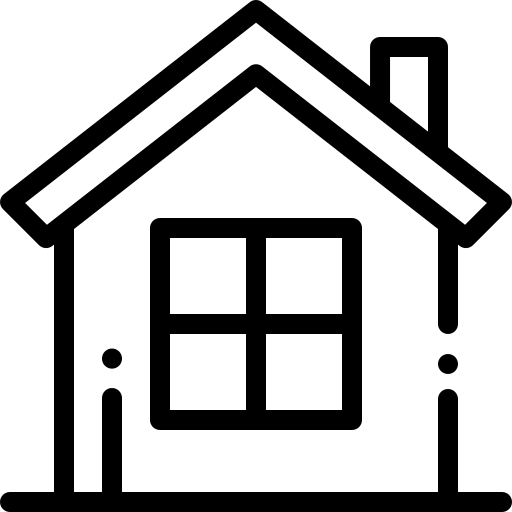
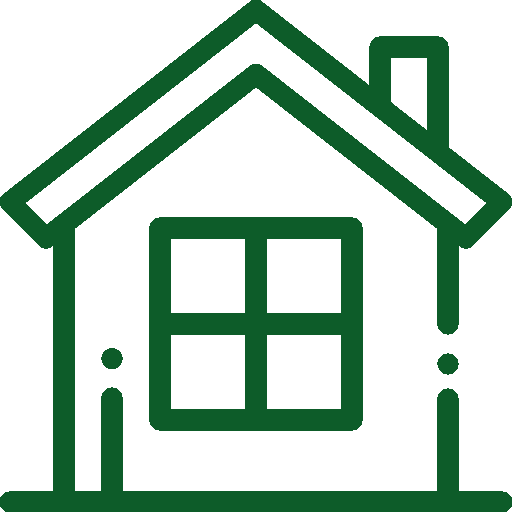
updated taskbar image

Changed region(s): [[0.0, 0.0, 1.0, 1.0], [0.2812, 0.4062, 0.7188, 0.8438], [0.1875, 0.6875, 0.25, 0.7188]]

diff --git a/src/app/taskbar/taskbar.component.html b/src/app/taskbar/taskbar.component.html
@@ -1,13 +1,13 @@
 <div class="taskbar">
     <img
       [class.highlighted]="isHome()"
-      src="assets/home.png"
+      src="assets/home2.png"
       alt="Home"
       (click)="navigate('home')"
     />
     <img
       [class.highlighted]="isLeaderboard()"
-      src="assets/leaderboard.png"
+      src="assets/leaderboard2.png"
       alt="Leaderboard"
       (click)="navigate('leaderboard')"
     />
